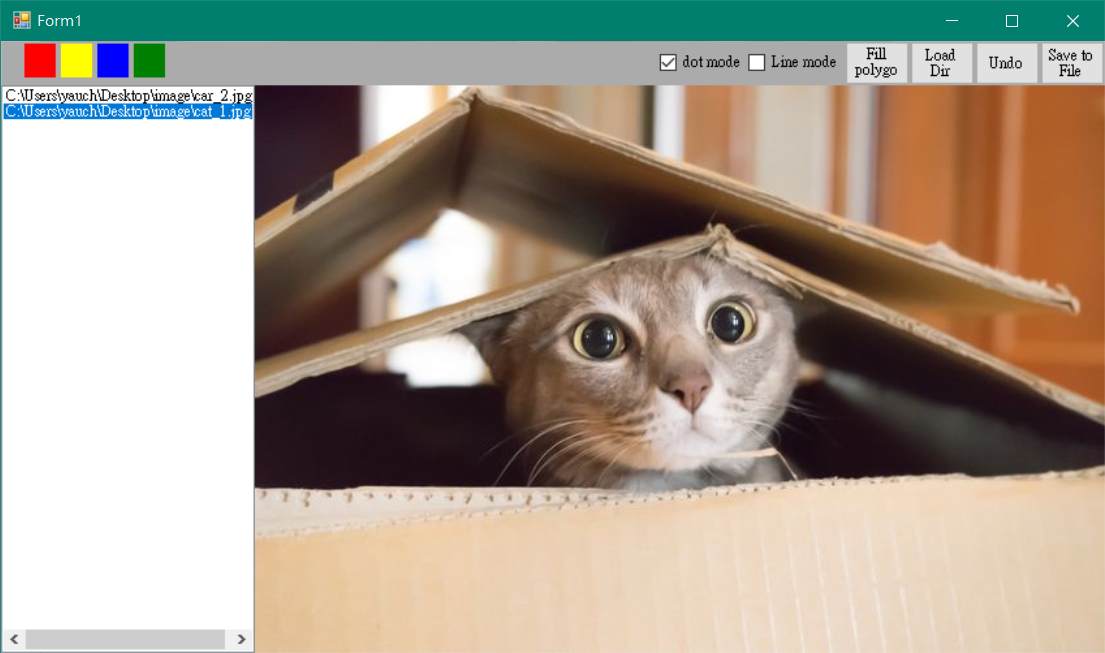
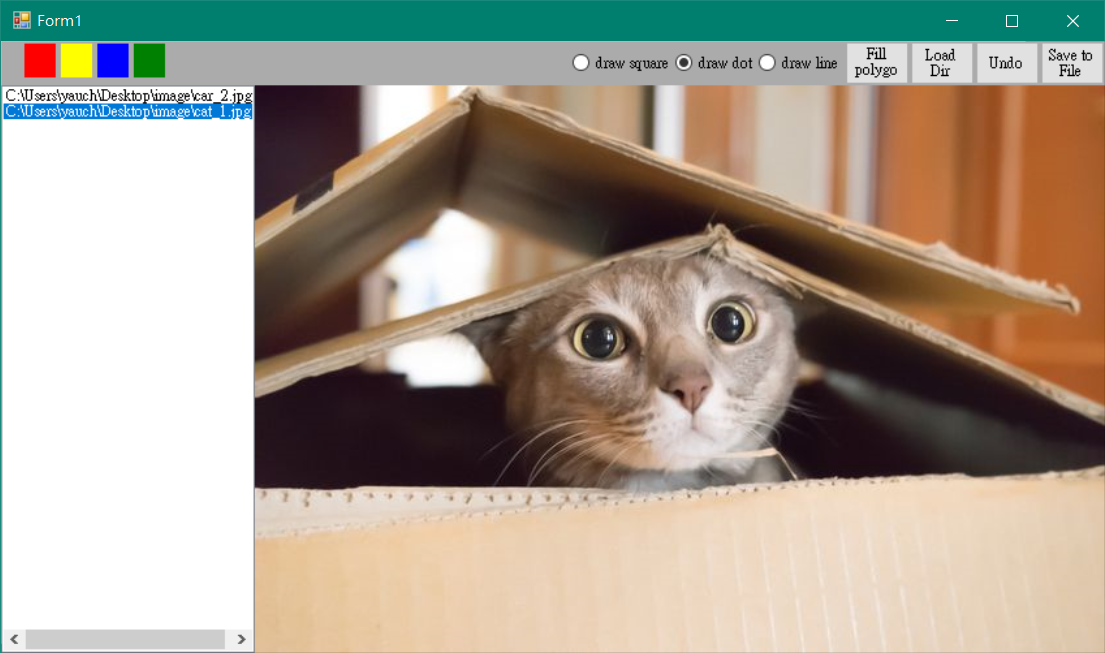
better radiobox & square plot

Changed region(s): [[0.5231, 0.0613, 0.7692, 0.1225], [0.9846, 0.9801, 1.0, 1.0], [0.9846, 0.0613, 1.0, 0.0919]]

diff --git a/Image labling tool/Form1.Designer.cs b/Image labling tool/Form1.Designer.cs
@@ -35,8 +35,6 @@ namespace Image_labling_tool
             this.canvas = new System.Windows.Forms.PictureBox();
             this.photoList = new System.Windows.Forms.ListBox();
             this.actionBar = new System.Windows.Forms.Panel();
-            this.dotMode = new System.Windows.Forms.CheckBox();
-            this.lineMode = new System.Windows.Forms.CheckBox();
             this.fillButton = new System.Windows.Forms.Button();
             this.button3 = new System.Windows.Forms.Button();
             this.undoButton = new System.Windows.Forms.Button();
@@ -45,6 +43,9 @@ namespace Image_labling_tool
             this.pictureBox3 = new System.Windows.Forms.PictureBox();
             this.pictureBox2 = new System.Windows.Forms.PictureBox();
             this.pictureBox1 = new System.Windows.Forms.PictureBox();
+            this.drawLine = new System.Windows.Forms.RadioButton();
+            this.drawDot = new System.Windows.Forms.RadioButton();
+            this.drawSquare = new System.Windows.Forms.RadioButton();
             this.panel1.SuspendLayout();
             ((System.ComponentModel.ISupportInitialize)(this.canvas)).BeginInit();
             this.actionBar.SuspendLayout();
@@ -64,7 +65,7 @@ namespace Image_labling_tool
             this.panel1.Dock = System.Windows.Forms.DockStyle.Fill;
             this.panel1.Location = new System.Drawing.Point(0, 0);
             this.panel1.Name = "panel1";
-            this.panel1.Size = new System.Drawing.Size(697, 466);
+            this.panel1.Size = new System.Drawing.Size(841, 466);
             this.panel1.TabIndex = 0;
             // 
             // canvas
@@ -72,7 +73,7 @@ namespace Image_labling_tool
             this.canvas.Dock = System.Windows.Forms.DockStyle.Fill;
             this.canvas.Location = new System.Drawing.Point(189, 45);
             this.canvas.Name = "canvas";
-            this.canvas.Size = new System.Drawing.Size(508, 421);
+            this.canvas.Size = new System.Drawing.Size(652, 421);
             this.canvas.SizeMode = System.Windows.Forms.PictureBoxSizeMode.AutoSize;
             this.canvas.TabIndex = 3;
             this.canvas.TabStop = false;
@@ -96,8 +97,9 @@ namespace Image_labling_tool
             // actionBar
             // 
             this.actionBar.BackColor = System.Drawing.SystemColors.AppWorkspace;
-            this.actionBar.Controls.Add(this.dotMode);
-            this.actionBar.Controls.Add(this.lineMode);
+            this.actionBar.Controls.Add(this.drawSquare);
+            this.actionBar.Controls.Add(this.drawDot);
+            this.actionBar.Controls.Add(this.drawLine);
             this.actionBar.Controls.Add(this.fillButton);
             this.actionBar.Controls.Add(this.button3);
             this.actionBar.Controls.Add(this.undoButton);
@@ -109,39 +111,13 @@ namespace Image_labling_tool
             this.actionBar.Dock = System.Windows.Forms.DockStyle.Top;
             this.actionBar.Location = new System.Drawing.Point(0, 0);
             this.actionBar.Name = "actionBar";
-            this.actionBar.Size = new System.Drawing.Size(697, 45);
+            this.actionBar.Size = new System.Drawing.Size(841, 45);
             this.actionBar.TabIndex = 0;
-            // 
-            // dotMode
-            // 
-            this.dotMode.AutoSize = true;
-            this.dotMode.Checked = true;
-            this.dotMode.CheckState = System.Windows.Forms.CheckState.Checked;
-            this.dotMode.Dock = System.Windows.Forms.DockStyle.Right;
-            this.dotMode.Location = new System.Drawing.Point(211, 0);
-            this.dotMode.Name = "dotMode";
-            this.dotMode.Size = new System.Drawing.Size(89, 45);
-            this.dotMode.TabIndex = 9;
-            this.dotMode.Text = "dot mode";
-            this.dotMode.UseVisualStyleBackColor = true;
-            this.dotMode.CheckedChanged += new System.EventHandler(this.dotMode_CheckedChanged);
-            // 
-            // lineMode
-            // 
-            this.lineMode.AutoSize = true;
-            this.lineMode.Dock = System.Windows.Forms.DockStyle.Right;
-            this.lineMode.Location = new System.Drawing.Point(300, 0);
-            this.lineMode.Name = "lineMode";
-            this.lineMode.Size = new System.Drawing.Size(97, 45);
-            this.lineMode.TabIndex = 8;
-            this.lineMode.Text = "Line mode";
-            this.lineMode.UseVisualStyleBackColor = true;
-            this.lineMode.CheckedChanged += new System.EventHandler(this.lineMode_CheckedChanged);
             // 
             // fillButton
             // 
             this.fillButton.Dock = System.Windows.Forms.DockStyle.Right;
-            this.fillButton.Location = new System.Drawing.Point(397, 0);
+            this.fillButton.Location = new System.Drawing.Point(541, 0);
             this.fillButton.Name = "fillButton";
             this.fillButton.Size = new System.Drawing.Size(75, 45);
             this.fillButton.TabIndex = 7;
@@ -152,7 +128,7 @@ namespace Image_labling_tool
             // button3
             // 
             this.button3.Dock = System.Windows.Forms.DockStyle.Right;
-            this.button3.Location = new System.Drawing.Point(472, 0);
+            this.button3.Location = new System.Drawing.Point(616, 0);
             this.button3.Name = "button3";
             this.button3.Size = new System.Drawing.Size(75, 45);
             this.button3.TabIndex = 6;
@@ -163,7 +139,7 @@ namespace Image_labling_tool
             // undoButton
             // 
             this.undoButton.Dock = System.Windows.Forms.DockStyle.Right;
-            this.undoButton.Location = new System.Drawing.Point(547, 0);
+            this.undoButton.Location = new System.Drawing.Point(691, 0);
             this.undoButton.Name = "undoButton";
             this.undoButton.Size = new System.Drawing.Size(75, 45);
             this.undoButton.TabIndex = 5;
@@ -174,7 +150,7 @@ namespace Image_labling_tool
             // saveToFile
             // 
             this.saveToFile.Dock = System.Windows.Forms.DockStyle.Right;
-            this.saveToFile.Location = new System.Drawing.Point(622, 0);
+            this.saveToFile.Location = new System.Drawing.Point(766, 0);
             this.saveToFile.Name = "saveToFile";
             this.saveToFile.Size = new System.Drawing.Size(75, 45);
             this.saveToFile.TabIndex = 4;
@@ -222,13 +198,50 @@ namespace Image_labling_tool
             this.pictureBox1.TabStop = false;
             this.pictureBox1.Click += new System.EventHandler(this.ColorClick);
             // 
+            // drawLine
+            // 
+            this.drawLine.AutoSize = true;
+            this.drawLine.Dock = System.Windows.Forms.DockStyle.Right;
+            this.drawLine.Location = new System.Drawing.Point(454, 0);
+            this.drawLine.Name = "drawLine";
+            this.drawLine.Size = new System.Drawing.Size(87, 45);
+            this.drawLine.TabIndex = 8;
+            this.drawLine.TabStop = true;
+            this.drawLine.Text = "draw line";
+            this.drawLine.UseVisualStyleBackColor = true;
+            // 
+            // drawDot
+            // 
+            this.drawDot.AutoSize = true;
+            this.drawDot.Checked = true;
+            this.drawDot.Dock = System.Windows.Forms.DockStyle.Right;
+            this.drawDot.Location = new System.Drawing.Point(370, 0);
+            this.drawDot.Name = "drawDot";
+            this.drawDot.Size = new System.Drawing.Size(84, 45);
+            this.drawDot.TabIndex = 9;
+            this.drawDot.TabStop = true;
+            this.drawDot.Text = "draw dot";
+            this.drawDot.UseVisualStyleBackColor = true;
+            // 
+            // drawSquare
+            // 
+            this.drawSquare.AutoSize = true;
+            this.drawSquare.Dock = System.Windows.Forms.DockStyle.Right;
+            this.drawSquare.Location = new System.Drawing.Point(265, 0);
+            this.drawSquare.Name = "drawSquare";
+            this.drawSquare.Size = new System.Drawing.Size(105, 45);
+            this.drawSquare.TabIndex = 10;
+            this.drawSquare.TabStop = true;
+            this.drawSquare.Text = "draw square";
+            this.drawSquare.UseVisualStyleBackColor = true;
+            // 
             // Form1
             // 
             this.AutoScaleDimensions = new System.Drawing.SizeF(9F, 16F);
             this.AutoScaleMode = System.Windows.Forms.AutoScaleMode.Font;
             this.AutoSize = true;
             this.AutoSizeMode = System.Windows.Forms.AutoSizeMode.GrowAndShrink;
-            this.ClientSize = new System.Drawing.Size(697, 466);
+            this.ClientSize = new System.Drawing.Size(841, 466);
             this.Controls.Add(this.panel1);
             this.Name = "Form1";
             this.StartPosition = System.Windows.Forms.FormStartPosition.WindowsDefaultBounds;
@@ -261,8 +274,9 @@ namespace Image_labling_tool
         private System.Windows.Forms.Button saveToFile;
         private PictureBox canvas;
         private Button fillButton;
-        private CheckBox dotMode;
-        private CheckBox lineMode;
+        private RadioButton drawSquare;
+        private RadioButton drawDot;
+        private RadioButton drawLine;
     }
 }
 

diff --git a/Image labling tool/Form1.cs b/Image labling tool/Form1.cs
@@ -15,6 +15,7 @@ namespace Image_labling_tool
     public partial class Form1 : Form
     {
         Point mouseMove = Point.Empty;
+        Point mouseDown = Point.Empty;
         bool moving = false;
         Pen pen;
         Image original;
@@ -40,32 +41,61 @@ namespace Image_labling_tool
         {
             moving = true;
             mouseMove = e.Location;
+            mouseDown = e.Location;
         }
 
         private void PanelMouseMove(object sender, MouseEventArgs e)
         {
             if (moving) 
             {
-                if (!lineMode.Checked) 
+                if (drawLine.Checked)
                 {
-                    return;
+                    DrawLines(e);
                 }
-                Image bmp = lastModified;
-                using (Graphics photo = Graphics.FromImage(bmp))
+                else if (drawSquare.Checked) 
                 {
-                    photo.SmoothingMode = System.Drawing.Drawing2D.SmoothingMode.AntiAlias;
-                    Brush aBrush = new SolidBrush(pen.Color);
-                    photo.DrawLine(pen, mouseMove, e.Location);
+                    DrawSquares(e);
                 }
-                mouseMove = e.Location;
-                canvas.Image.Dispose();
-                canvas.Image = new Bitmap(bmp);
-
+               
             }
         }
+
+        private void DrawSquares(MouseEventArgs e) 
+        {
+            Bitmap bm = new Bitmap(canvas.Image);
+
+            // Draw the rectangle.
+            using (Graphics gr = Graphics.FromImage(bm))
+            {
+                gr.DrawRectangle(this.pen,
+                    Math.Min(mouseMove.X,e.X), Math.Min(mouseMove.Y, e.Y),
+                    Math.Abs(mouseMove.X-e.X), Math.Abs(mouseMove.Y - e.Y));
+            }
+
+            // Display the temporary bitmap.
+            canvas.Image.Dispose();
+            canvas.Image = bm;
+        }
+
+        private void DrawLines(MouseEventArgs e) 
+        {
+            Image bmp = lastModified;
+            using (Graphics photo = Graphics.FromImage(bmp))
+            {
+                photo.SmoothingMode = System.Drawing.Drawing2D.SmoothingMode.AntiAlias;
+                Brush aBrush = new SolidBrush(pen.Color);
+                photo.DrawLine(pen, mouseMove, e.Location);
+            }
+            mouseMove = e.Location;
+            canvas.Image.Dispose();
+            canvas.Image = new Bitmap(bmp);
+        }
+
+
+
         private void PanelMouseClick(object sender, MouseEventArgs e)
         {
-            if (!dotMode.Checked|| canvas.Image==null)
+            if (!drawDot.Checked|| canvas.Image==null)
             {
                 return;
             }
@@ -85,7 +115,27 @@ namespace Image_labling_tool
         {
             moving = false;
             canvas.Cursor = Cursors.Default;
-            canvas.Invalidate();
+            if (!drawSquare.Checked) 
+            {
+                canvas.Invalidate();
+                return;
+            }
+            // Copy the selected part of the image.
+            int wid = Math.Abs(mouseMove.X - e.X);
+            int hgt = Math.Abs(mouseMove.Y - e.Y);
+            if ((wid < 1) || (hgt < 1)) return;
+
+            Bitmap area = (Bitmap)lastModified;
+            using (Graphics g = Graphics.FromImage(area))
+            {
+                Rectangle dest_rectangle =new Rectangle(mouseDown.X, mouseDown.Y, wid, hgt);
+                Brush aBrush = new SolidBrush(pen.Color);
+                g.FillRectangle(aBrush, dest_rectangle);
+            }
+
+            // Display the result.
+            canvas.Image.Dispose();
+            canvas.Image = new Bitmap(area);
         }
 
         private void LoadDirectory(object sender, EventArgs e)
@@ -205,47 +255,5 @@ namespace Image_labling_tool
             return false;
         
         }
-
-        private void dotMode_CheckedChanged(object sender, EventArgs e)
-        {
-            if (dotMode.Checked)
-            {
-                lineMode.Checked = false;
-            }
-            else 
-            {
-                lineMode.Checked = true;
-            }
-            if (lineMode.Checked)
-            {
-                dotMode.Checked = false;
-            }
-            else
-            {
-                dotMode.Checked = true;
-            }
-
-        }
-
-        private void lineMode_CheckedChanged(object sender, EventArgs e)
-        {
-            if (dotMode.Checked)
-            {
-                lineMode.Checked = false;
-            }
-            else
-            {
-                lineMode.Checked = true;
-            }
-            if (lineMode.Checked)
-            {
-                dotMode.Checked = false;
-            }
-            else
-            {
-                dotMode.Checked = true;
-            }
-        }
-
     }
 }
